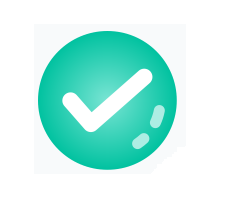
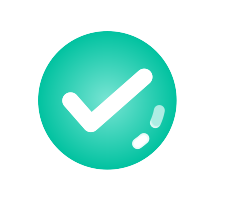
remove btn backgorund and weight and repeat to update trainign screen

diff --git a/src/components/UI/Exercise.tsx b/src/components/UI/Exercise.tsx
@@ -31,7 +31,9 @@ const Exercise = ({
 	isTraining,
 }: exercisePropsType) => {
 	const [repeatState, setRepeatState] = useState<string | number>('');
-	const [weightState, setWeightState] = useState<string | number>('');
+	const [weightState, setWeightState] = useState<string | number | undefined>(
+		weight
+	);
 	const [checkState, setCheckState] = useState<boolean>(false);
 	const [showModal, setShowModal] = useState(false);
 
@@ -48,7 +50,7 @@ const Exercise = ({
 		if (check === false || check === true) {
 			setCheckState(check);
 		}
-	}, [check]);
+	}, [check, weight, repeat]);
 
 	const handleInputRepeat = () => {
 		if (inputRefRepeat.current) {
@@ -88,6 +90,7 @@ const Exercise = ({
 	const closeModalHandler = () => {
 		setShowModal(false);
 	};
+
 	return (
 		<>
 			{' '}

diff --git a/src/app/api/apiSlice.tsx b/src/app/api/apiSlice.tsx
@@ -11,7 +11,7 @@ import {
 // http://localhost:3000
 
 const baseQuery = fetchBaseQuery({
-	baseUrl: '//calm-jade-sturgeon-boot.cyclic.app',
+	baseUrl: 'http://localhost:3000',
 	credentials: 'include',
 	prepareHeaders: (headers, { getState }) => {
 		const token = (getState() as RootState).auth.token;

diff --git a/src/css/MyRecordsScreen.css b/src/css/MyRecordsScreen.css
@@ -19,7 +19,6 @@
 	align-items: center;
 	flex-direction: column;
 	width: 270px;
-	/* height: 200px; */
 	border: 1px solid black;
 	border-radius: 5px;
 	margin: 0.5rem;

diff --git a/src/index.css b/src/index.css
@@ -79,6 +79,7 @@ h2 {
 }
 .btn {
 	border: none;
+	background: transparent;
 	transition: transform 0.3s;
 	margin: 0.5rem;
 }
